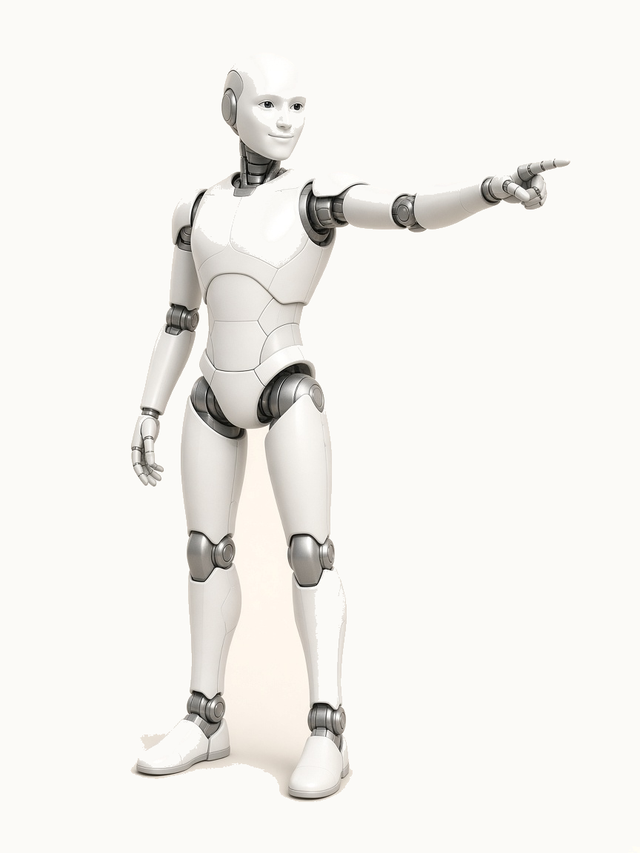
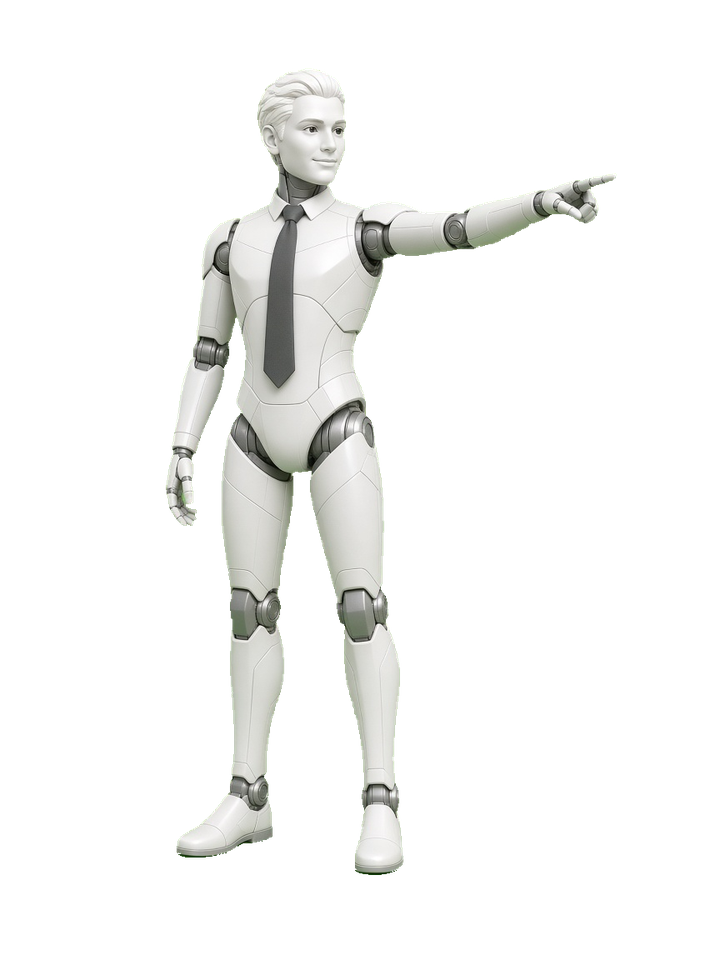
الروبوت كان رسمة على الخطوات بس. بقى مدرّس بجرافتة، بيظهر من أول الصفحة على الشمال وبينزل مع كل جزء كأنه هو اللي بيشرحه.

Changed region(s): [[0.1875, 0.061, 0.9062, 0.9449]]

diff --git a/src/app/landing-steps.tsx b/src/app/landing-steps.tsx
@@ -1,93 +1,32 @@
 "use client";
 
-import { useEffect, useRef, useState } from "react";
-
-import { cn } from "@/lib/utils";
-
 import { Reveal } from "./landing-reveal";
 
-/**
- * خطوات «إزاي تبدأ». الأولى تظهر أول ما القسم يدخل الشاشة.
- * الروبوت على الشمال يتحرك ويشوّر على الخطوة اللي ظهرت.
- */
+/** خطوات «إزاي تبدأ». الأولى تظهر أول ما القسم يدخل، والباقي مع النزول. */
 export function StartSteps({ steps }: { steps: string[] }) {
-  const boxRef = useRef<HTMLDivElement>(null);
-  const activeRef = useRef(-1);
-  const [active, setActive] = useState(-1);
-  const [top, setTop] = useState(0);
-  const [travel, setTravel] = useState(false);
-
-  useEffect(() => {
-    if (active < 0 || travel) return;
-    const id = requestAnimationFrame(() => setTravel(true));
-    return () => cancelAnimationFrame(id);
-  }, [active, travel]);
-
-  function arrive(index: number) {
-    const box = boxRef.current;
-    if (!box) return;
-    const next = Math.max(activeRef.current, index);
-    if (next === activeRef.current) return;
-    const target = box.querySelector<HTMLElement>(`[data-step="${next}"]`);
-    if (!target) return;
-    activeRef.current = next;
-    setTop(target.offsetTop + target.offsetHeight / 2 - 100);
-    setActive(next);
-  }
-
   return (
-    <div ref={boxRef} className="relative mt-8 lg:pb-16">
-      <GuideRobot top={top} show={active >= 0} travel={travel} />
-      <ol className="flex max-w-4xl flex-col gap-10 lg:me-64">
-        {steps.map((step, i) => (
-          <Reveal
-            key={step}
-            as="li"
-            variant="step"
-            step={i}
-            line={i === 0 ? 1.15 : 0.82}
-            onShow={() => arrive(i)}
-            className="relative flex items-start gap-5"
-          >
-            {i < steps.length - 1 ? (
-              <span
-                aria-hidden
-                className="absolute top-11 bottom-[-2.5rem] start-[21.75px] w-[0.5px] bg-line"
-              />
-            ) : null}
-            <span className="tnum relative z-10 flex size-11 shrink-0 items-center justify-center rounded-full bg-accent text-base font-semibold text-white">
-              {i + 1}
-            </span>
-            <p className="pt-2 text-lg leading-relaxed text-ink sm:text-xl">{step}</p>
-          </Reveal>
-        ))}
-      </ol>
-    </div>
-  );
-}
-
-function GuideRobot({
-  top,
-  show,
-  travel,
-}: {
-  top: number;
-  show: boolean;
-  travel: boolean;
-}) {
-  return (
-    <div
-      aria-hidden
-      className={cn(
-        "pointer-events-none absolute left-0 z-10 hidden w-60 lg:block",
-        show ? "opacity-100" : "opacity-0",
-        travel ? "transition-[transform,opacity] duration-700 ease-out" : "transition-opacity duration-500",
-      )}
-      style={{ transform: `translateY(${top}px)` }}
-    >
-      <div className="guide-float">
-        <img src="/guide-robot.png" alt="" className="h-auto w-full" />
-      </div>
-    </div>
+    <ol className="mt-8 flex max-w-4xl flex-col gap-10">
+      {steps.map((step, i) => (
+        <Reveal
+          key={step}
+          as="li"
+          variant="step"
+          step={i}
+          line={i === 0 ? 1.15 : 0.82}
+          className="relative flex items-start gap-5"
+        >
+          {i < steps.length - 1 ? (
+            <span
+              aria-hidden
+              className="absolute top-11 bottom-[-2.5rem] start-[21.75px] w-[0.5px] bg-line"
+            />
+          ) : null}
+          <span className="tnum relative z-10 flex size-11 shrink-0 items-center justify-center rounded-full bg-accent text-base font-semibold text-white">
+            {i + 1}
+          </span>
+          <p className="pt-2 text-lg leading-relaxed text-ink sm:text-xl">{step}</p>
+        </Reveal>
+      ))}
+    </ol>
   );
 }

diff --git a/src/app/landing-guide.tsx b/src/app/landing-guide.tsx
@@ -1,0 +1,92 @@
+"use client";
+
+import { useEffect, useRef, useState } from "react";
+
+import { cn } from "@/lib/utils";
+
+/** إيد السبابة تقريبًا عند خمس ارتفاع الصورة */
+const HAND = 0.181;
+
+/**
+ * المدرّس بيظهر على الشمال من أول الصفحة، وبينزل بهدوء
+ * على الجزء اللي داخل الشاشة كأنه هو اللي بيشرحه.
+ */
+export function LandingGuide() {
+  const ref = useRef<HTMLDivElement>(null);
+  const [entered, setEntered] = useState(false);
+
+  useEffect(() => {
+    const node = ref.current;
+    if (!node) return;
+    const reduce = window.matchMedia("(prefers-reduced-motion: reduce)").matches;
+    let frame = 0;
+    let running = true;
+    let y = 140;
+    let ready = false;
+    let lastKey = "";
+    let nudgeUntil = 0;
+
+    const tick = (now: number) => {
+      if (!running) return;
+      const vh = window.innerHeight;
+      const nodes = [...document.querySelectorAll<HTMLElement>("[data-guide], [data-step]")];
+      let best: HTMLElement | null = null;
+      let bestDist = Infinity;
+      for (const el of nodes) {
+        if (el.hasAttribute("data-step") && parseFloat(getComputedStyle(el).opacity) < 0.45) continue;
+        const rect = el.getBoundingClientRect();
+        if (rect.bottom < 48 || rect.top > vh - 48) continue;
+        const mid = rect.top + Math.min(rect.height, 64) / 2;
+        const dist = Math.abs(mid - vh * 0.4);
+        if (dist < bestDist) {
+          bestDist = dist;
+          best = el;
+        }
+      }
+
+      const hand = node.offsetHeight * HAND || 48;
+      let desired = vh * 0.22;
+      if (best) {
+        const rect = best.getBoundingClientRect();
+        desired = rect.top + Math.min(rect.height, 64) / 2 - hand;
+        const key = best.dataset.guide ?? best.dataset.step ?? "";
+        if (key !== lastKey) {
+          lastKey = key;
+          nudgeUntil = now + 700;
+        }
+      }
+      desired = Math.max(76, Math.min(desired, vh - node.offsetHeight * 0.55));
+      y = reduce ? desired : y + (desired - y) * 0.12;
+      const nudge = now < nudgeUntil ? 14 : 0;
+      node.style.transform = `translate3d(${nudge}px, ${y}px, 0)`;
+      if (!ready) {
+        ready = true;
+        setEntered(true);
+      }
+      frame = requestAnimationFrame(tick);
+    };
+
+    frame = requestAnimationFrame(tick);
+    return () => {
+      running = false;
+      cancelAnimationFrame(frame);
+    };
+  }, []);
+
+  return (
+    <div
+      aria-hidden
+      className={cn(
+        "pointer-events-none fixed left-3 top-0 z-30 hidden w-44 xl:block",
+        "transition-opacity duration-700",
+        entered ? "opacity-100" : "opacity-0",
+      )}
+    >
+      <div ref={ref}>
+        <div className="guide-float">
+          <img src="/guide-robot.png" alt="" className="h-auto w-full" />
+        </div>
+      </div>
+    </div>
+  );
+}

diff --git a/src/app/landing.tsx b/src/app/landing.tsx
@@ -4,6 +4,7 @@ import { ClipboardCheck, FileText, Layers, PenLine } from "lucide-react";
 import { LogoWordmark } from "@/components/logo";
 
 import { LandingField } from "./landing-field";
+import { LandingGuide } from "./landing-guide";
 import { Reveal } from "./landing-reveal";
 import { StartSteps } from "./landing-steps";
 
@@ -51,6 +52,7 @@ export function Landing() {
   return (
     <div className="relative min-h-dvh">
       <LandingField tone="light" />
+      <LandingGuide />
       <header className="relative z-20 border-b-[0.5px] border-line bg-page">
         <div className="mx-auto flex w-full max-w-5xl items-center justify-between gap-3 px-5 py-4">
           <LogoWordmark />
@@ -67,7 +69,10 @@ export function Landing() {
       <div data-band className="on-band relative z-10 bg-band text-band-ink">
         <LandingField tone="dark" />
 
-        <div className="relative z-10 mx-auto w-full max-w-3xl px-5 pb-16 pt-12 sm:pt-16">
+        <div
+          data-guide="hero"
+          className="relative z-10 mx-auto w-full max-w-3xl px-5 pb-16 pt-12 sm:pt-16 xl:translate-x-8"
+        >
           <p className="inline-flex rounded-[6px] border-[0.5px] border-band-line px-2.5 py-1 text-xs text-band-ink-2">
             الصف الثاني الثانوي · البكالوريا المصرية
           </p>
@@ -108,7 +113,7 @@ export function Landing() {
       </div>
 
       <main className="relative z-10 mx-auto w-full max-w-5xl px-5 pb-16 pt-16">
-        <section>
+        <section data-guide="inside">
           <h2 className="text-lg font-semibold text-ink">جوه المنصة</h2>
           <ul className="mt-4 grid gap-2 sm:grid-cols-2">
             {INSIDE.map((item, i) => (
@@ -123,12 +128,12 @@ export function Landing() {
           </ul>
         </section>
 
-        <section className="mt-16">
+        <section data-guide="steps" className="mt-16">
           <h2 className="text-xl font-semibold text-ink">إزاي تبدأ</h2>
           <StartSteps steps={STEPS} />
         </section>
 
-        <section className="mt-16">
+        <section data-guide="tracks" className="mt-16">
           <h2 className="text-lg font-semibold text-ink">عربي، أو لغات</h2>
           <p className="mt-2 max-w-lg text-sm leading-relaxed text-ink-2">
             بتختار المسار وأنت بتعمل الحساب. كل طالب يشوف محتوى مساره بس.
